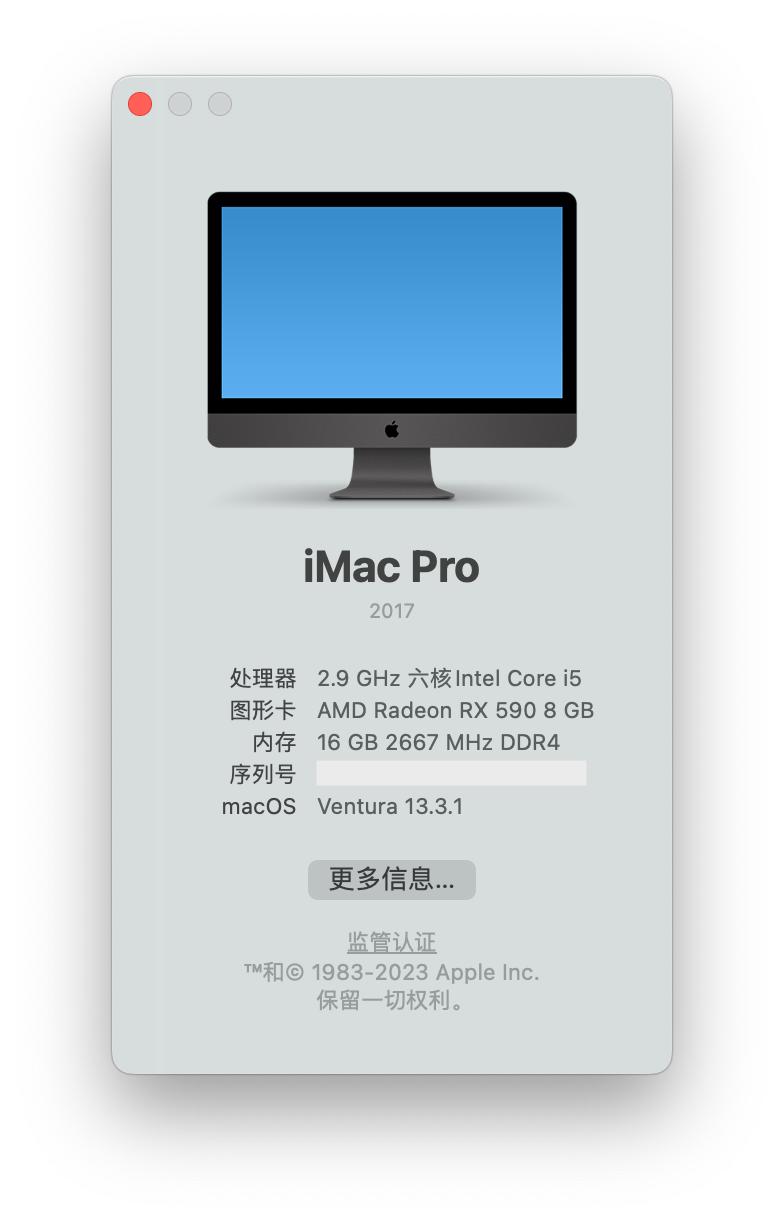
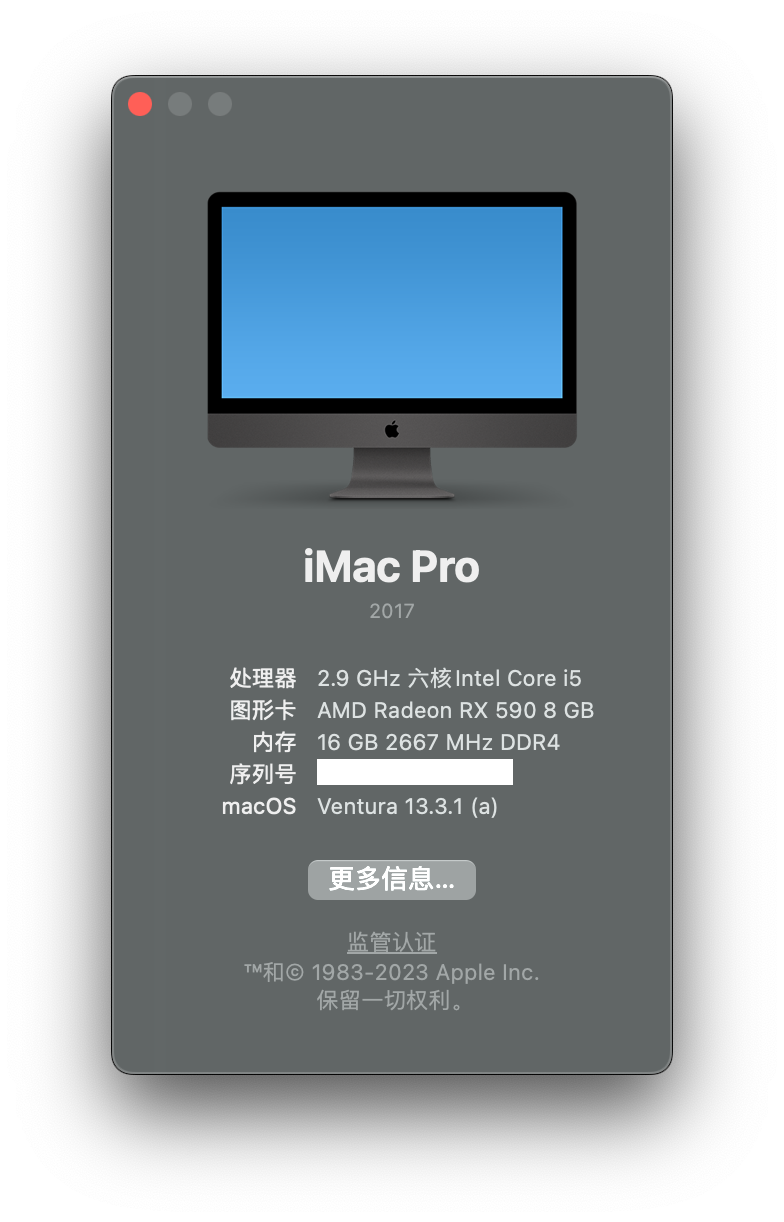
macOS 13.3.1 (a)

diff --git a/README.md b/README.md
@@ -24,13 +24,13 @@ Hackintosh OpenCore EFI</br>
 
 **⚡ Ventura**
 
-| EFI   | macOS         | OpenCore |     -      |
-| ----- | ------------- | :------: | :--------: |
-| 3.3   | 13.3 ~ 13.3.1 |  0.9.0   | 2023.03.28 |
-| 3.2   | 13.2 ~ 13.2.1 |  0.8.8   | 2023.01.26 |
-| 3.1   | 13.1          |  0.8.7   | 2022.12.14 |
-| 3.0.1 | 13.0.1        |  0.8.6   | 2022.11.10 |
-| 3.0   | 13.0          |  0.8.5   | 2022.10.28 |
+| EFI   | macOS             | OpenCore |     -      |
+| ----- | ----------------- | :------: | :--------: |
+| 3.3   | 13.3 ~ 13.3.1 (a) |  0.9.0   | 2023.03.28 |
+| 3.2   | 13.2 ~ 13.2.1     |  0.8.8   | 2023.01.26 |
+| 3.1   | 13.1              |  0.8.7   | 2022.12.14 |
+| 3.0.1 | 13.0.1            |  0.8.6   | 2022.11.10 |
+| 3.0   | 13.0              |  0.8.5   | 2022.10.28 |
 
 
 <details>
